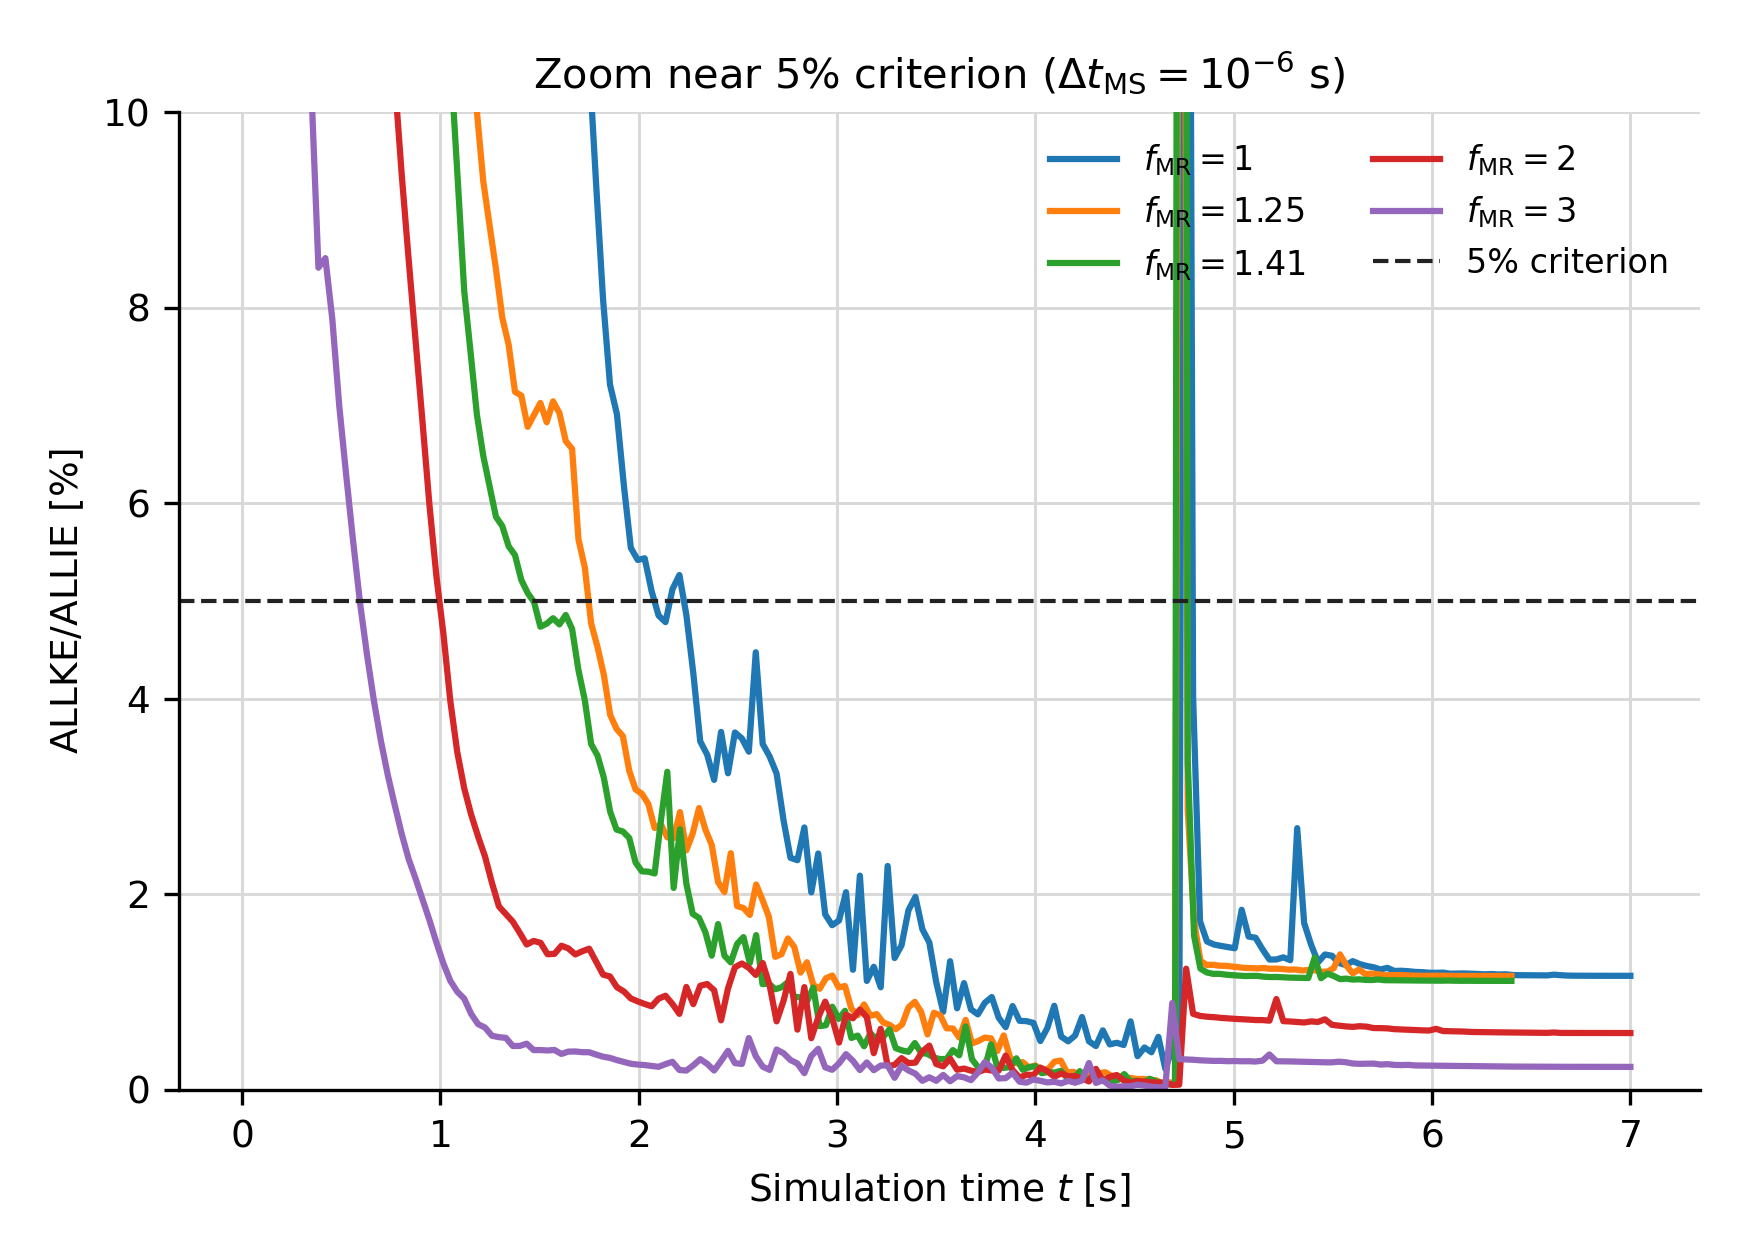
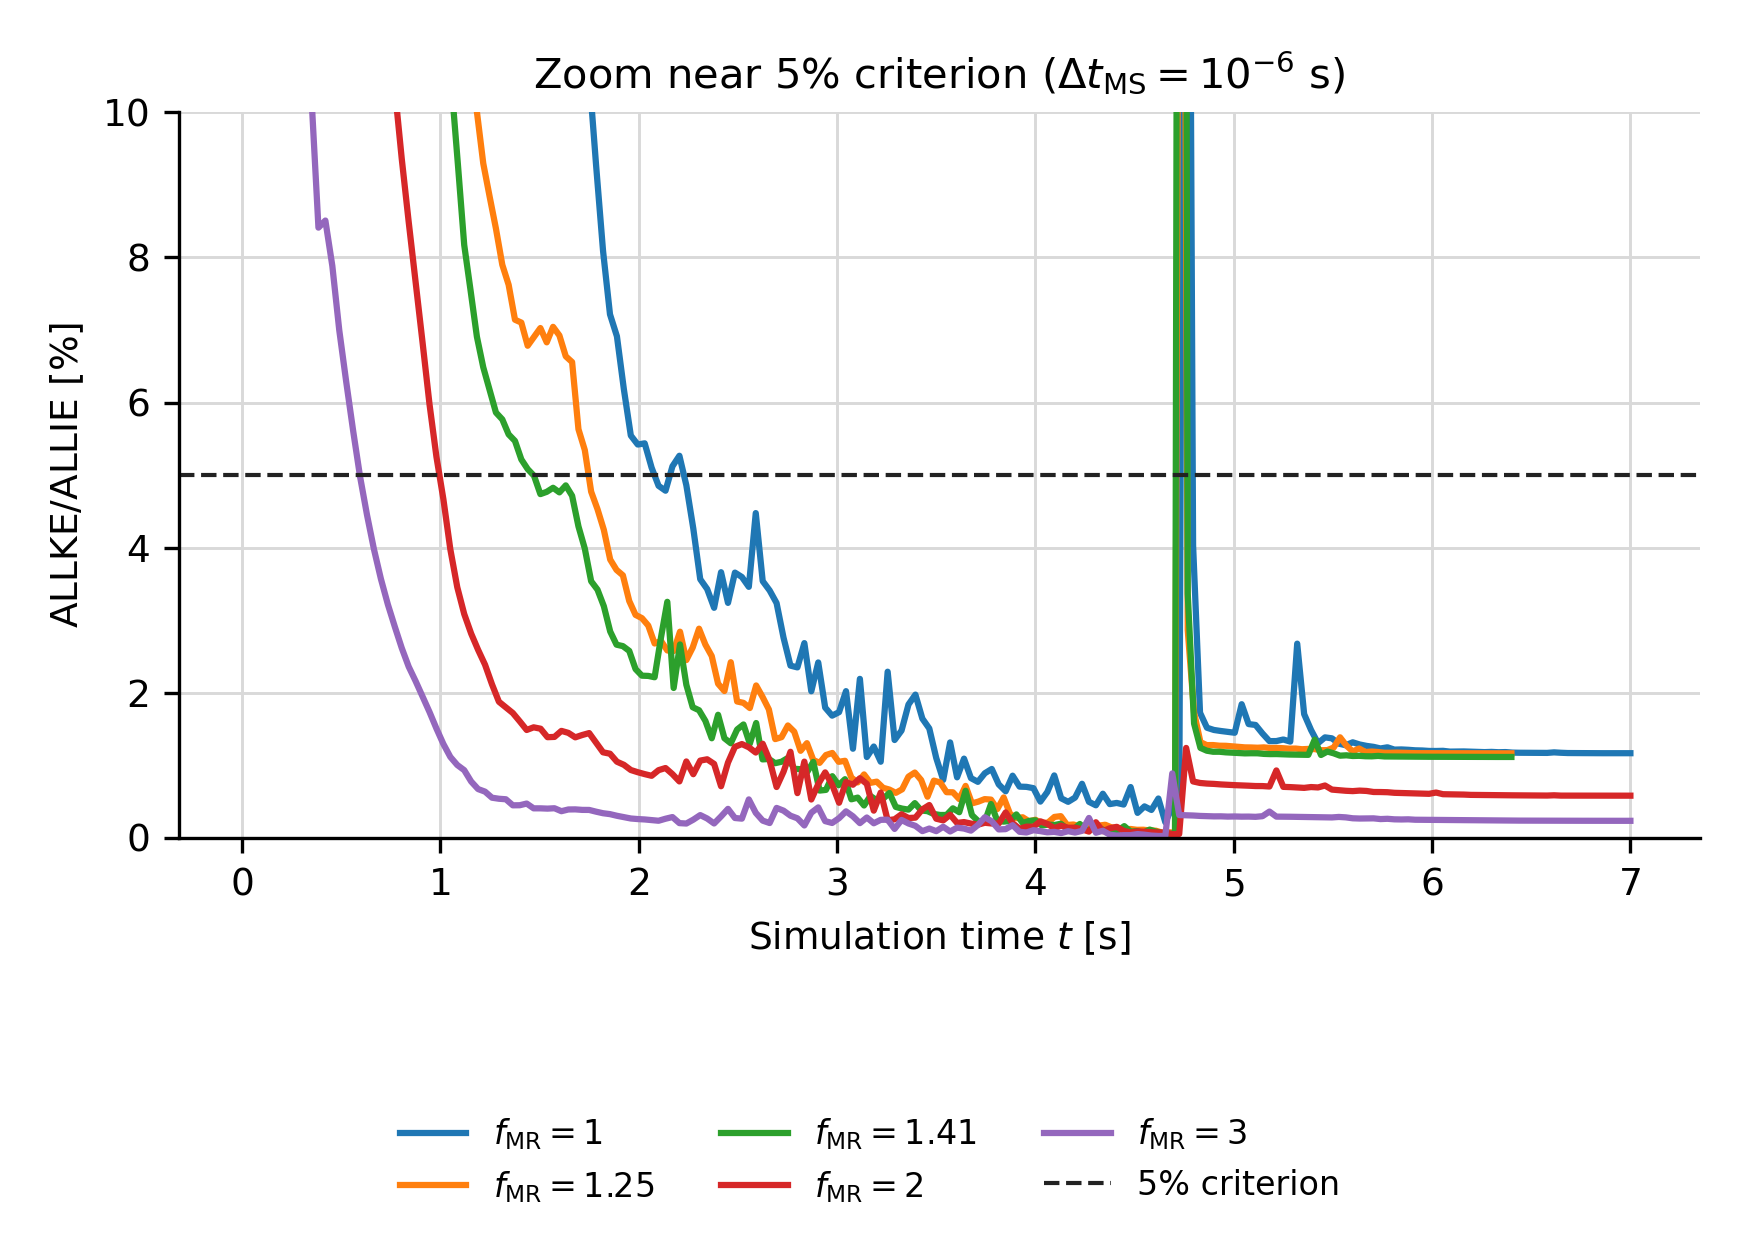
Place zoom plot legends below axes

diff --git a/report/img/make_ms_mr_plots.py b/report/img/make_ms_mr_plots.py
@@ -114,9 +114,12 @@ def _style_axes(ax: plt.Axes, xlabel: str, ylabel: str) -> None:
     ax.spines["right"].set_visible(False)
 
 
-def _save(fig: plt.Figure, stem: str) -> None:
+def _save(fig: plt.Figure, stem: str, *, bottom_margin: float | None = None) -> None:
     OUT_DIR.mkdir(parents=True, exist_ok=True)
-    fig.tight_layout()
+    if bottom_margin is None:
+        fig.tight_layout()
+    else:
+        fig.tight_layout(rect=(0.0, bottom_margin, 1.0, 1.0))
     fig.savefig(OUT_DIR / f"{stem}.png", dpi=300)
     fig.savefig(OUT_DIR / f"{stem}.pdf")
     plt.close(fig)
@@ -171,7 +174,14 @@ def _plot_strain_path(jobs: list[Job], stem: str, title: str) -> None:
     _save(fig, stem)
 
 
-def _plot_energy(jobs: list[Job], stem: str, title: str, ylim: tuple[float, float] | None = None) -> None:
+def _plot_energy(
+    jobs: list[Job],
+    stem: str,
+    title: str,
+    ylim: tuple[float, float] | None = None,
+    *,
+    legend_below: bool = False,
+) -> None:
     fig, ax = plt.subplots(figsize=PANEL_FIGSIZE)
     cmap = plt.get_cmap("tab10")
     max_ratio = 0.0
@@ -189,8 +199,21 @@ def _plot_energy(jobs: list[Job], stem: str, title: str, ylim: tuple[float, floa
         ax.set_ylim(*ylim)
     _style_axes(ax, r"Simulation time $t$ [s]", r"$\mathrm{ALLKE}/\mathrm{ALLIE}$ [%]")
     ax.set_title(title)
-    ax.legend(loc="upper right", frameon=False, fontsize=8, ncol=2)
-    _save(fig, stem)
+    if legend_below:
+        handles, labels = ax.get_legend_handles_labels()
+        fig.legend(
+            handles,
+            labels,
+            loc="lower center",
+            bbox_to_anchor=(0.5, 0.02),
+            frameon=False,
+            fontsize=8,
+            ncol=3,
+        )
+        _save(fig, stem, bottom_margin=0.20)
+    else:
+        ax.legend(loc="upper right", frameon=False, fontsize=8, ncol=2)
+        _save(fig, stem)
 
 
 def _plot_forming_limit_points() -> None:
@@ -288,13 +311,31 @@ def main() -> None:
     )
     _plot_strain_path(MASS_SWEEP, "ms_mr_mass_scaling_strain_path", r"Mass-scaling sensitivity ($f_\mathrm{MR}=2$)")
     _plot_energy(MASS_SWEEP, "ms_mr_mass_scaling_energy", r"Energy-ratio history ($f_\mathrm{MR}=2$)")
-    _plot_energy(MASS_SWEEP, "ms_mr_mass_scaling_energy_zoom", r"Zoom near 5% criterion ($f_\mathrm{MR}=2$)", ylim=(0.0, 10.0))
+    _plot_energy(
+        MASS_SWEEP,
+        "ms_mr_mass_scaling_energy_zoom",
+        r"Zoom near 5% criterion ($f_\mathrm{MR}=2$)",
+        ylim=(0.0, 10.0),
+        legend_below=True,
+    )
     _plot_strain_path(MESH_SWEEP, "ms_mr_mesh_refinement_strain_path", r"Mesh-refinement sensitivity ($\Delta t_\mathrm{MS}=10^{-5}$ s)")
     _plot_energy(MESH_SWEEP, "ms_mr_mesh_refinement_energy", r"Energy-ratio history ($\Delta t_\mathrm{MS}=10^{-5}$ s)")
-    _plot_energy(MESH_SWEEP, "ms_mr_mesh_refinement_energy_zoom", r"Zoom near 5% criterion ($\Delta t_\mathrm{MS}=10^{-5}$ s)", ylim=(0.0, 10.0))
+    _plot_energy(
+        MESH_SWEEP,
+        "ms_mr_mesh_refinement_energy_zoom",
+        r"Zoom near 5% criterion ($\Delta t_\mathrm{MS}=10^{-5}$ s)",
+        ylim=(0.0, 10.0),
+        legend_below=True,
+    )
     _plot_strain_path(CONFIRM_SWEEP, "ms_mr_confirm_strain_path", r"Mesh-refinement confirmation ($\Delta t_\mathrm{MS}=10^{-6}$ s)")
     _plot_energy(CONFIRM_SWEEP, "ms_mr_confirm_energy", r"Energy-ratio history ($\Delta t_\mathrm{MS}=10^{-6}$ s)")
-    _plot_energy(CONFIRM_SWEEP, "ms_mr_confirm_energy_zoom", r"Zoom near 5% criterion ($\Delta t_\mathrm{MS}=10^{-6}$ s)", ylim=(0.0, 10.0))
+    _plot_energy(
+        CONFIRM_SWEEP,
+        "ms_mr_confirm_energy_zoom",
+        r"Zoom near 5% criterion ($\Delta t_\mathrm{MS}=10^{-6}$ s)",
+        ylim=(0.0, 10.0),
+        legend_below=True,
+    )
     _plot_forming_limit_points()
     summary = pd.DataFrame(_summary_rows())
     OUT_DIR.mkdir(parents=True, exist_ok=True)
